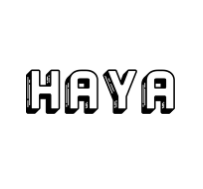
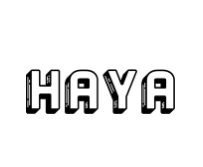
lastpic1

Changed region(s): [[0.1182, 0.3593, 0.8867, 0.6886]]

diff --git a/index.html b/index.html
@@ -15,7 +15,7 @@ body,h1,h2,h3,h4,h5,h6 {font-family: "Amatic SC", sans-serif}
 .bgimg {
   
    
-  background-image: url("haya4.png");
+  background-image: url("unnamed.png");
   background-repeat: repeat;
   min-height: 90%;
 }
